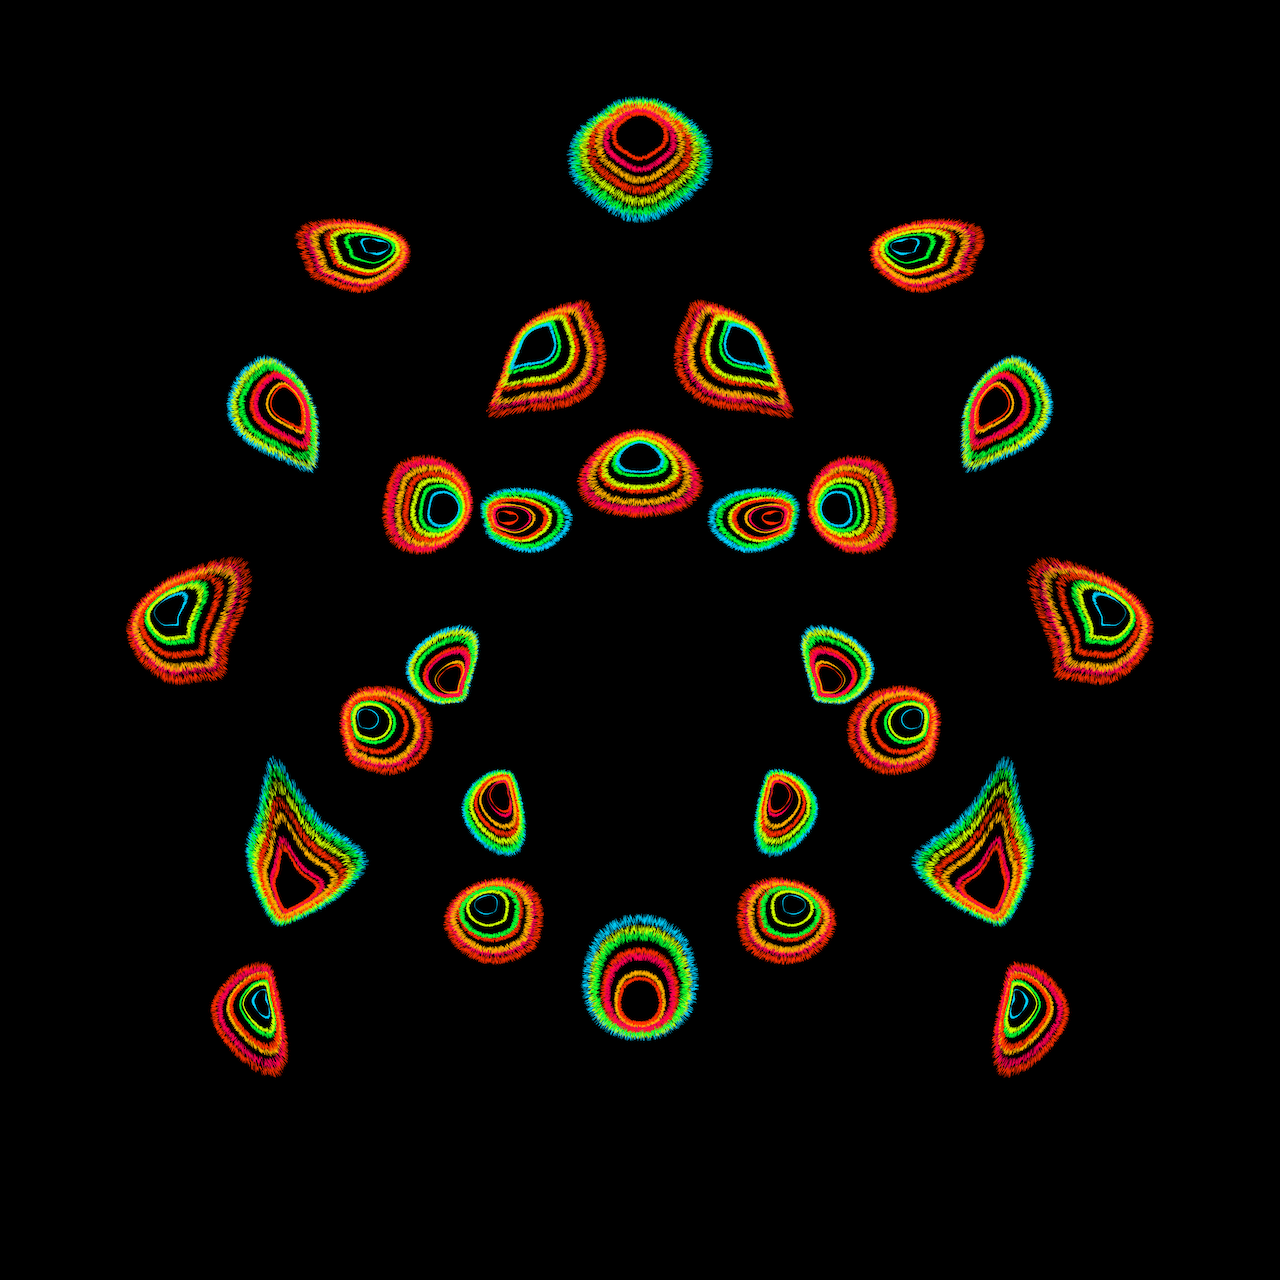
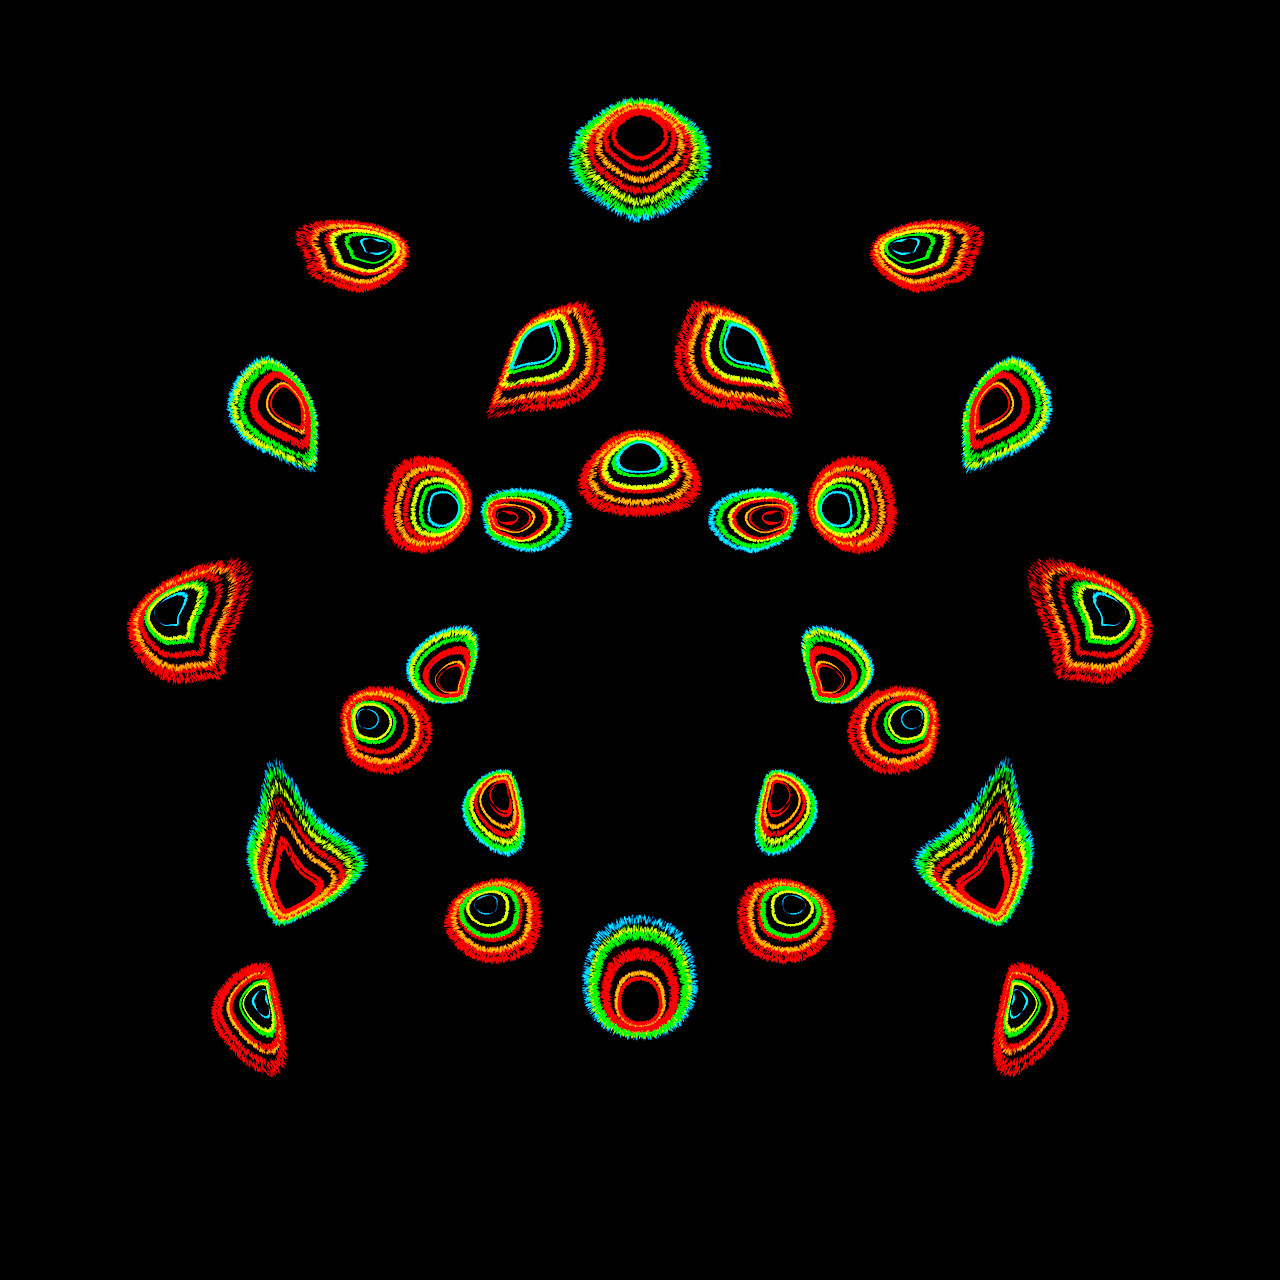
feature(source/pages/graphics): share old works and improve coloring for web (#8)
* feature(source/pages/graphics): progress uploading old content

* feature(source/pages/graphics): moar progress uploading old content

diff --git a/source/pages/graphics/Graphics.page.tsx b/source/pages/graphics/Graphics.page.tsx
@@ -18,54 +18,114 @@ function Graphics() {
   return (
     <Page accessibilityLabel={'graphics'}>
       <GraphicSection
-        sectionDivider={null}
-        graphicName={'kool-pah-bleh'}
-        graphicDescription={'what do you see?'}
-        projectName={'plural pinata'}
-        projectLocation={'sea you dad day mexico'}
-        projectDate={'july 2021'}
-        soloUrl={'/graphics/kool-pah-bleh.hi.png'}
-        listUrl={'/graphics/kool-pah-bleh.png'}
-      />
-      <GraphicSection
         sectionDivider={<SectionDivider />}
-        graphicName={'mahs-koh-tah'}
+        graphicName={'rree-koh'}
         graphicDescription={'what do you see?'}
         projectName={'plural pinata'}
-        projectLocation={'sea you dad day mexico'}
-        projectDate={'july 2021'}
-        soloUrl={'/graphics/mahs-koh-tah.hi.png'}
-        listUrl={'/graphics/mahs-koh-tah.png'}
-      />
-      <GraphicSection
-        sectionDivider={<SectionDivider />}
-        graphicName={'kah-mah-rah-dah'}
-        graphicDescription={'what do you see?'}
-        projectName={'plural pinata'}
-        projectLocation={'sea you dad day mexico'}
-        projectDate={'july 2021'}
-        soloUrl={'/graphics/kah-mah-rah-dah.hi.png'}
-        listUrl={'/graphics/kah-mah-rah-dah.png'}
+        projectLocation={'mexico city'}
+        projectDate={'summer 2021'}
+        soloUrl={'/graphics/rree-koh.hi.png'}
+        listUrl={'/graphics/rree-koh.png'}
       />
       <GraphicSection
         sectionDivider={<SectionDivider />}
         graphicName={'kohm-plee-seh'}
         graphicDescription={'what do you see?'}
         projectName={'plural pinata'}
-        projectLocation={'sea you dad day mexico'}
-        projectDate={'july 2021'}
+        projectLocation={'mexico city'}
+        projectDate={'summer 2021'}
         soloUrl={'/graphics/kohm-plee-seh.hi.png'}
         listUrl={'/graphics/kohm-plee-seh.png'}
       />
       <GraphicSection
         sectionDivider={<SectionDivider />}
-        graphicName={'rree-koh'}
+        graphicName={'mahs-koh-tah'}
         graphicDescription={'what do you see?'}
         projectName={'plural pinata'}
-        projectLocation={'sea you dad day mexico'}
-        projectDate={'july 2021'}
-        soloUrl={'/graphics/rree-koh.hi.png'}
-        listUrl={'/graphics/rree-koh.png'}
+        projectLocation={'mexico city'}
+        projectDate={'summer 2021'}
+        soloUrl={'/graphics/mahs-koh-tah.hi.png'}
+        listUrl={'/graphics/mahs-koh-tah.png'}
+      />
+      <GraphicSection
+        sectionDivider={null}
+        graphicName={'kool-pah-bleh'}
+        graphicDescription={'what do you see?'}
+        projectName={'plural pinata'}
+        projectLocation={'mexico city'}
+        projectDate={'summer 2021'}
+        soloUrl={'/graphics/kool-pah-bleh.hi.png'}
+        listUrl={'/graphics/kool-pah-bleh.png'}
+      />
+      <GraphicSection
+        sectionDivider={<SectionDivider />}
+        graphicName={'trywe'}
+        graphicDescription={'what do you see?'}
+        projectName={'try all'}
+        projectLocation={'fort collins'}
+        projectDate={'winter 2017-18'}
+        soloUrl={'/graphics/trywe.hi.png'}
+        listUrl={'/graphics/trywe.png'}
+      />
+      <GraphicSection
+        sectionDivider={<SectionDivider />}
+        graphicName={'trythee'}
+        graphicDescription={'what do you see?'}
+        projectName={'try all'}
+        projectLocation={'fort collins'}
+        projectDate={'winter 2017-18'}
+        soloUrl={'/graphics/trythee.hi.png'}
+        listUrl={'/graphics/trythee.png'}
+      />
+      <GraphicSection
+        sectionDivider={<SectionDivider />}
+        graphicName={'tryme'}
+        graphicDescription={'what do you see?'}
+        projectName={'try all'}
+        projectLocation={'fort collins'}
+        projectDate={'winter 2017-18'}
+        soloUrl={'/graphics/tryme.hi.png'}
+        listUrl={'/graphics/tryme.png'}
+      />
+      <GraphicSection
+        sectionDivider={<SectionDivider />}
+        graphicName={'litethrewyou'}
+        graphicDescription={'what do you see?'}
+        projectName={'squared'}
+        projectLocation={'fort collins'}
+        projectDate={'winter 2017-18'}
+        soloUrl={'/graphics/litethrewyou.hi.png'}
+        listUrl={'/graphics/litethrewyou.png'}
+      />
+      <GraphicSection
+        sectionDivider={<SectionDivider />}
+        graphicName={'leadtwowater'}
+        graphicDescription={'what do you see?'}
+        projectName={'squared'}
+        projectLocation={'fort collins'}
+        projectDate={'winter 2017-18'}
+        soloUrl={'/graphics/leadtwowater.hi.png'}
+        listUrl={'/graphics/leadtwowater.png'}
+      />
+      <GraphicSection
+        sectionDivider={<SectionDivider />}
+        graphicName={'sonsetrise'}
+        graphicDescription={'what do you see?'}
+        projectName={'chord theory'}
+        projectLocation={'fort collins'}
+        projectDate={'winter 2017-18'}
+        soloUrl={'/graphics/sonsetrise.hi.png'}
+        listUrl={'/graphics/sonsetrise.png'}
+      />
+      <GraphicSection
+        sectionDivider={<SectionDivider />}
+        graphicName={'sircomevent'}
+        graphicDescription={'what do you see?'}
+        projectName={'chord theory'}
+        projectLocation={'fort collins'}
+        projectDate={'winter 2017-18'}
+        soloUrl={'/graphics/sircomevent.hi.png'}
+        listUrl={'/graphics/sircomevent.png'}
       />
       <NavigationFooter
         websiteLinks={[
